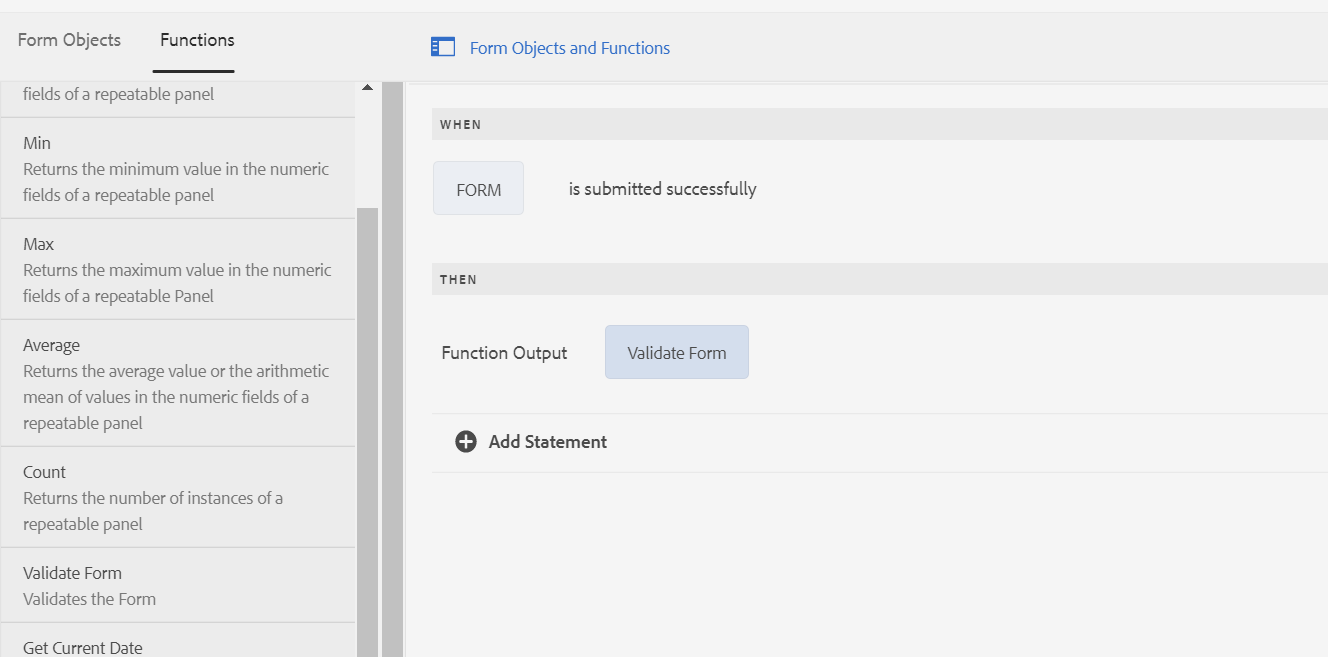
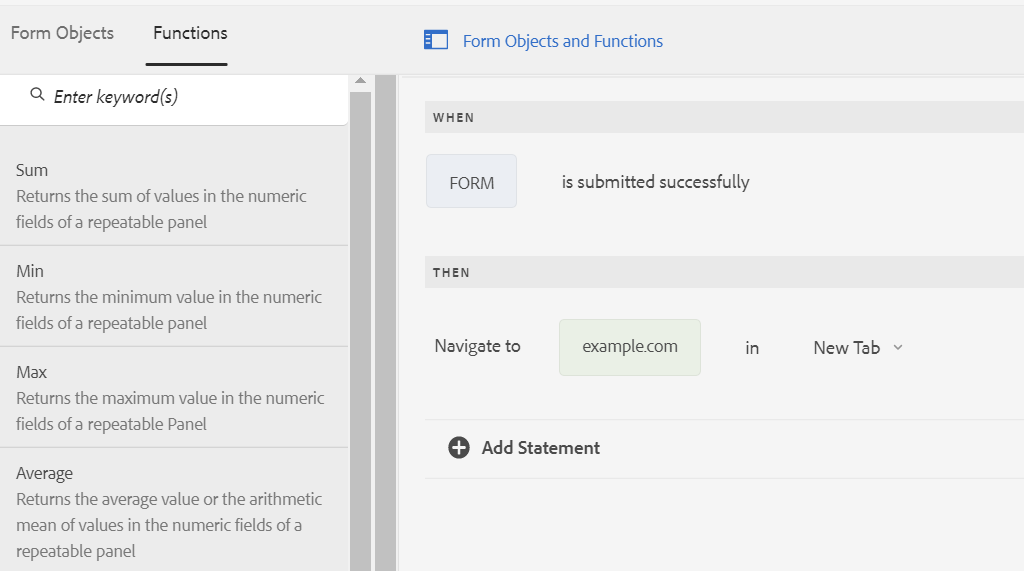
Fixed review comments for the Asynchronous article

diff --git a/help/asynchronous-submissions-adaptive-forms.md b/help/asynchronous-submissions-adaptive-forms.md
@@ -40,11 +40,19 @@ Let us first review the server response for success and error events.
 The structure for the server response for submission success event is as follows:
 
 ```json
-{
-  contentType : "<xmlschema or jsonschema>",
-  data : "<dataXML or dataJson>" ,
-  thankYouOption : <page/message>,
-  thankYouContent : "<thank you page url/thank you message>"
+{oneOf: [
+{  properties : {
+     contentType : {"type" : "string",  "enum" : ["xmlschema", "jsonschema"]},
+    data : {type : "string", description : "Form data in XML or  JSON  format"},
+   thankYouOption : {type : "string"}
+   }},
+  properties : {
+     contentType : {"type" : "string",  "enum" : ["xmlschema", "jsonschema"]},
+    data : {type : "string", description : "Form data in XML or  JSON  format"},
+   thankYouContent: {type: "string"}
+   }
+]
+
 }
 ```
 
@@ -90,7 +98,7 @@ Perform the following steps to write rules to handle success and error events.
 1. Open the Adaptive Form in authoring mode, select any form object, and tap ![edit-rules1](assets/edit-rules-icon.svg) to open the rule editor.
 1. Select **[!UICONTROL Form]** in the Form Objects tree and tap **[!UICONTROL Create]**.
 1. Choose **[!UICONTROL is submitted successfully]** or **[!UICONTROL submission fails]** from the **[!UICONTROL Select state]** drop-down list.
-1. Define a **[!UICONTROL Then]** action for the selected state. For example, select a Function Output and then drag any function using the **[!UICONTROL Functions]** tab.
+1. Define a **[!UICONTROL Then]** action for the selected state. For example, select **[!UICONTROL Navigate To]** and then type or paste a URL. You can also drag any function using the **[!UICONTROL Functions]** tab to the rule.
 
    ![successful submission handler](assets/form-submission-handler.png)
 
